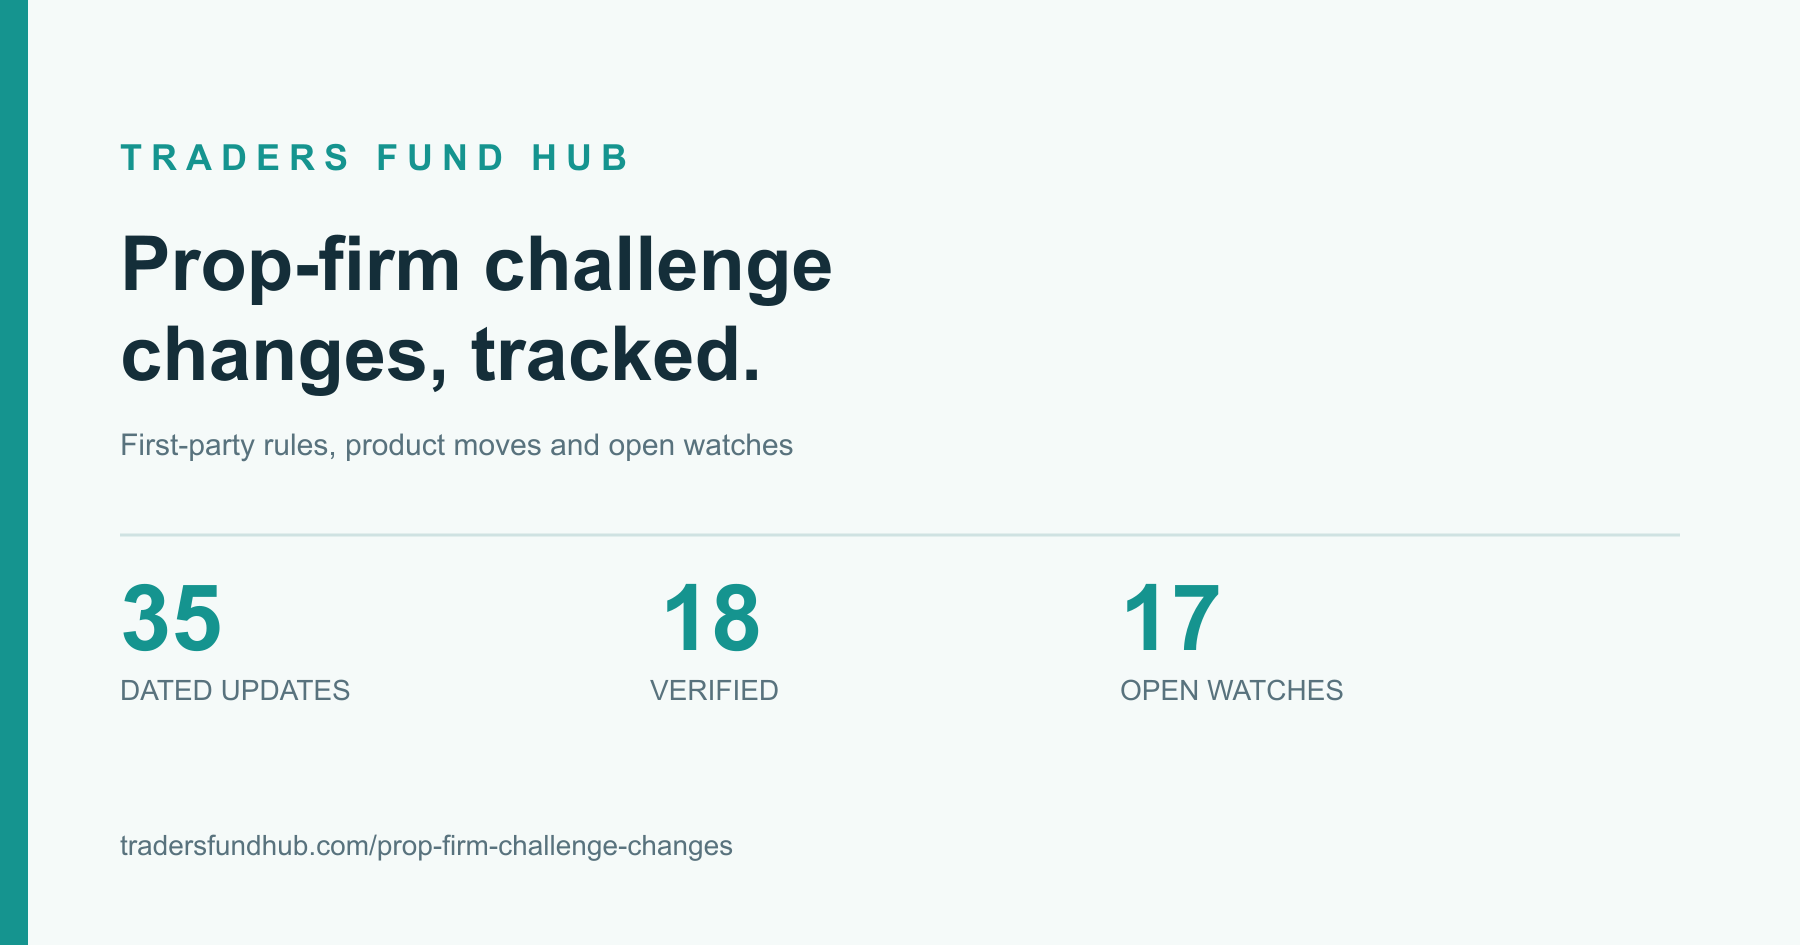
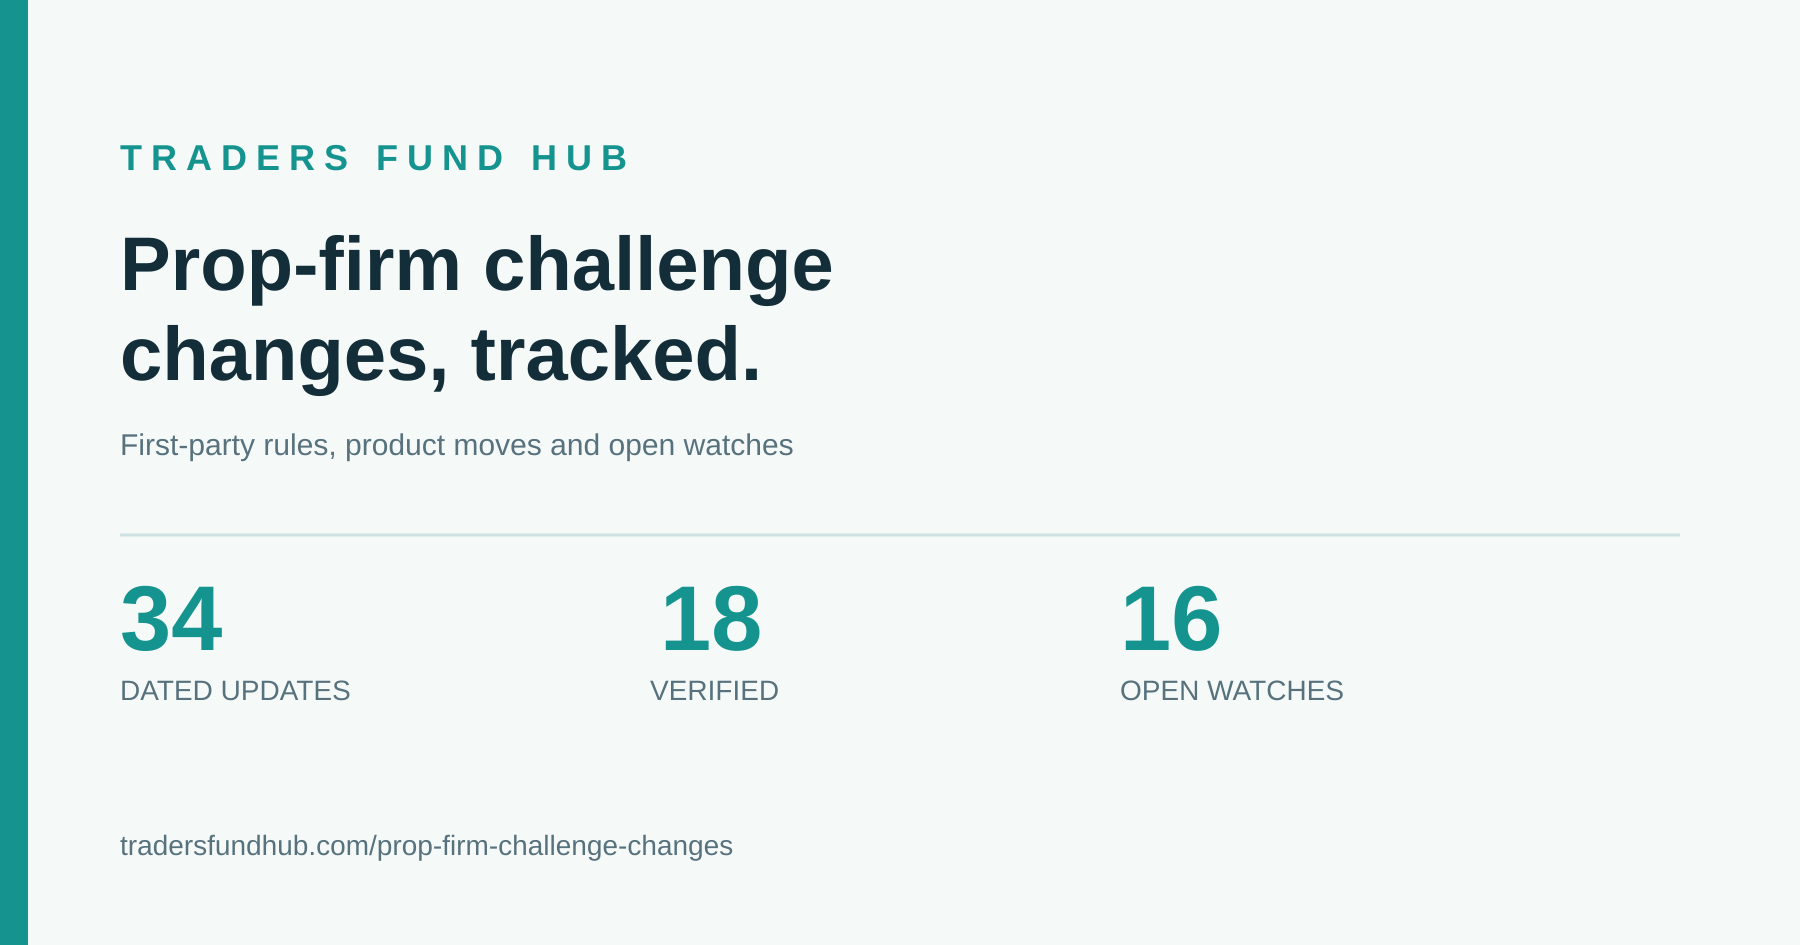
Challenge-changes social card: regenerate for 34/15/18/16 after TFT watch removal

diff --git a/app/prop-firm-challenge-changes/page.tsx b/app/prop-firm-challenge-changes/page.tsx
@@ -29,10 +29,10 @@ const PATH = '/prop-firm-challenge-changes'
 // These counts are a build-time consistency check for the social-card copy.
 // Keep them aligned with the current dated watch ledger so a new verified
 // change cannot strand the whole site on an older deployment.
-const SOCIAL_CARD_ENTRY_COUNT = 35
-const SOCIAL_CARD_FIRM_COUNT = 16
+const SOCIAL_CARD_ENTRY_COUNT = 34
+const SOCIAL_CARD_FIRM_COUNT = 15
 const SOCIAL_CARD_VERIFIED_COUNT = 18
-const SOCIAL_CARD_WATCH_COUNT = 17
+const SOCIAL_CARD_WATCH_COUNT = 16
 
 const TITLE = 'Prop Firm Challenge Changes & Rule Updates (2026)'
 const DESCRIPTION =
